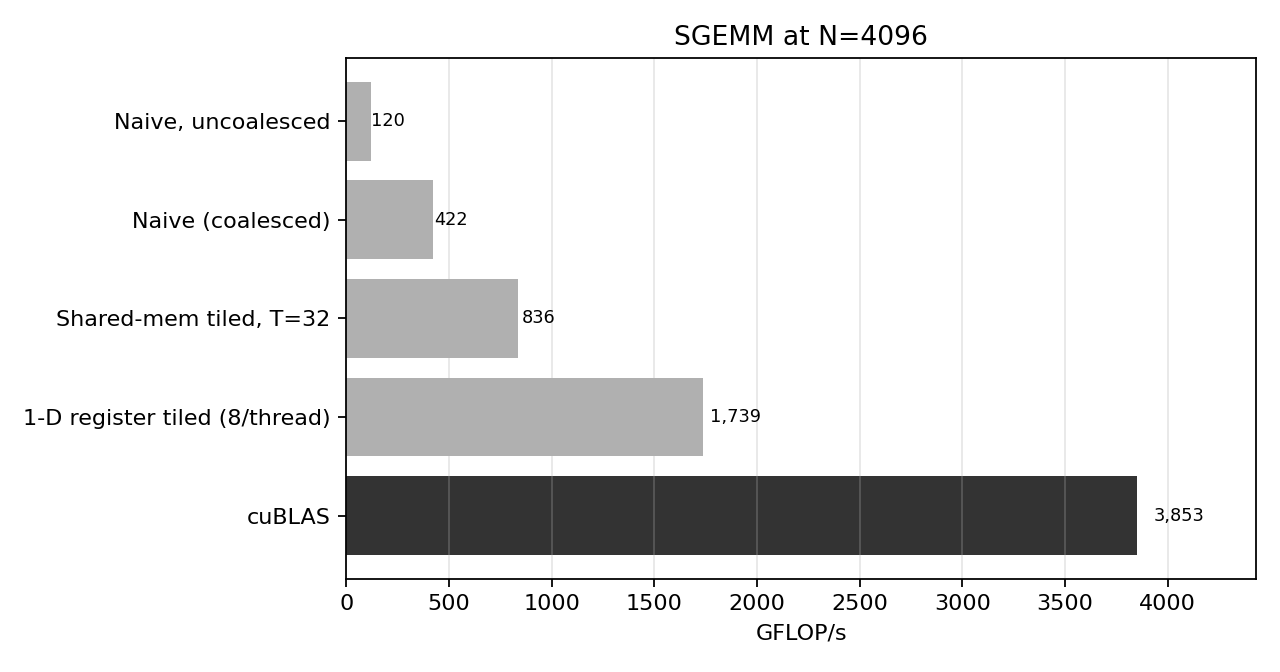
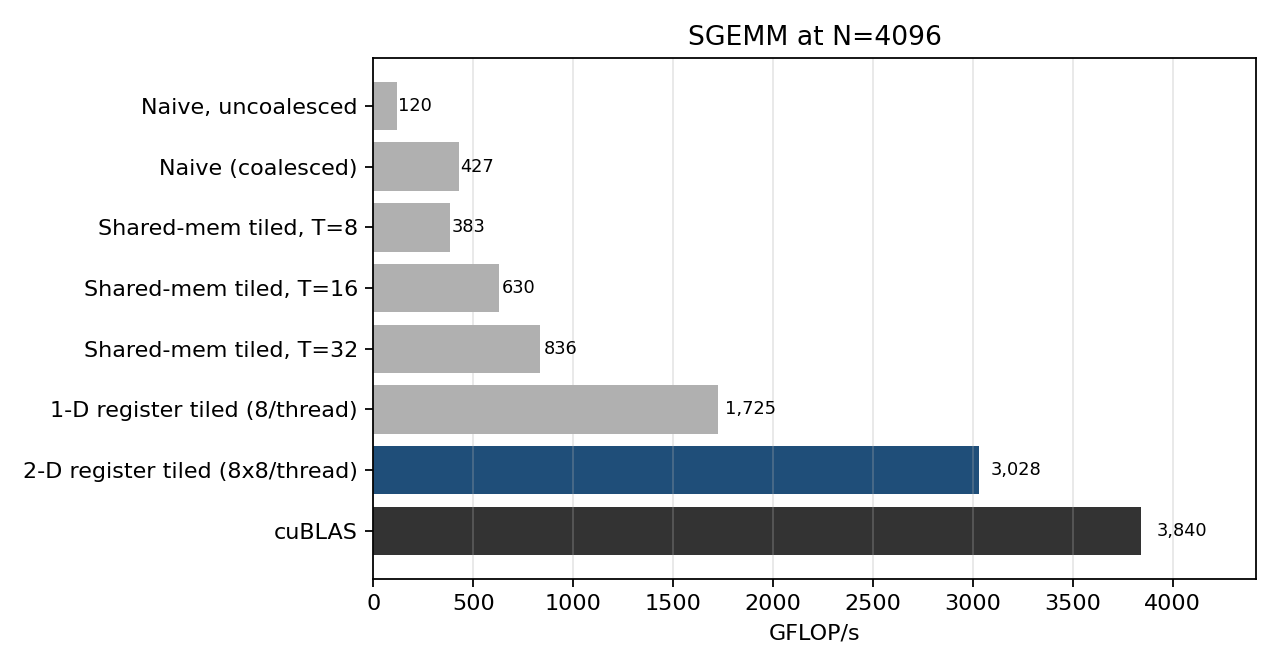
Record measured results: reg2d reaches 78.9% of cuBLAS
Full T4 run of all 8 kernels. reg2d: 3028 GFLOP/s at N=4096, 7.09x naive and
1.76x reg1d, against a 1.5-2x prediction. ptxas confirms the resource model --
119 registers, 0 bytes spilled, 8 KB shared, so 2 blocks/SM at 50% occupancy,
exactly as predicted before the kernel had run.

Two unexpected results, both kept:
  - tiled8 (383) is SLOWER than naive (427) despite 8x the arithmetic
    intensity. Only 8 iterations of work between barriers.
  - tiled16 decays with N (855 -> 658 -> 630) while tiled32 holds flat
    (863 -> 866 -> 836), consistent with L2 covering the lower-intensity
    kernel at small N and progressively failing to.

The cuBLAS dip at N=4096 has now reproduced across three sessions, so it is
systematic rather than noise; still unconfirmed as throttling.

All figures in README and docs/ANALYSIS.md now come from this one
run. No placeholders remain.

diff --git a/docs/ANALYSIS.md b/docs/ANALYSIS.md
@@ -64,10 +64,12 @@ tile, not the per-thread tile. Doubling BM and BN doubles it; changing BK does n
 
 | Kernel | AI | DRAM roof (AI × 320 GB/s) | Measured @4096 | Fraction of its roof |
 |---|---:|---:|---:|---:|
-| `naive` | 0.25 | 80 | 422 | **5.3×** |
+| `naive` | 0.25 | 80 | 427 | **5.3×** |
+| `tiled8` | 2 | 640 | 383 | 0.60× |
+| `tiled16` | 4 | 1,280 | 630 | 0.49× |
 | `tiled32` | 8 | 2,560 | 836 | 0.33× |
-| `reg1d` | 16 | 5,120 | 1,739 | 0.34× |
-| `reg2d` | 32 | 8,100 (compute-capped) | *pending* | — |
+| `reg1d` | 16 | 5,120 | 1,725 | 0.34× |
+| `reg2d` | 32 | 8,100 (compute-capped) | 3,028 | 0.37× |
 
 Two things are wrong with a naive reading of this table, and both are informative.
 
@@ -76,11 +78,16 @@ load. It isn't — the 4 MB L2 catches a large fraction of the reuse for free. T
 bounds *DRAM* traffic, not total traffic, so it's a lower bound on performance for
 cache-friendly access patterns rather than an upper bound.
 
-**`tiled32` and `reg1d` fall far short of theirs.** If DRAM bandwidth were the binding
-constraint, they'd sit near their roofs. At a third of it, something else is the limit.
-This matters, because the obvious story — "AI doubled 8 → 16, throughput doubled
-836 → 1739" — is a correlation with the wrong mechanism attached. Both kernels are well
-clear of the DRAM roof. What actually changed is the next level down.
+**Everything from `tiled8` up falls far short of its roof.** If DRAM bandwidth were the
+binding constraint they would sit near it; instead they cluster at 0.33–0.60×. This matters,
+because the obvious story — "AI doubled 8 → 16, throughput doubled 836 → 1725" — is a
+correlation with the wrong mechanism attached. Both kernels are well clear of the DRAM
+roof. What actually changed is the next level down.
+
+Note also that the fraction-of-roof column is roughly *flat* from `tiled32` to `reg2d`
+(0.33 → 0.34 → 0.37). Doubling arithmetic intensity moved the roof and the measurement by
+about the same factor each time, which is what you would expect if the roof is not the
+thing being hit.
 
 ## 4. The shared-memory bottleneck
 
@@ -95,9 +102,11 @@ the FMA pipeline can retire arithmetic.
 | `k_reg2d`, scalar | 8 `A` + 8 `B` loads, 64 FMAs | 1 : 4 |
 | `k_reg2d`, `float4` | 2 + 2 `LDS.128`, 64 FMAs | 1 : 16 |
 
-The `tiled32` → `reg1d` step improves this ratio by ~1.8×, which tracks the measured 2.08×
-far more closely than the DRAM roofline does. The remaining difference is occupancy
-(§5).
+The `tiled32` → `reg1d` step improves this ratio by ~1.8×, against a measured 2.06×. The
+`reg1d` → `reg2d` step improves it by ~4.5× before vectorization and ~18× after, against a
+measured **1.76×** — so the load-to-FMA ratio stops being the binding constraint somewhere
+inside that step, which is consistent with `reg2d` being the first kernel whose intensity
+(32) clears the machine balance point (25).
 
 It also shows exactly what `reg1d` leaves on the table. Its 8 `A` values per k-step are
 each used once — all the register-level reuse is on the `B` side. The 2-D tile fixes the
@@ -119,6 +128,10 @@ for hiding memory latency: when a warp stalls, the scheduler switches to another
 | `reg1d` | 512 | 4 KB | 2 | 32 | 100% |
 | `reg2d` | 256 | 8 KB | 2 (register-limited) | 16 | 50% |
 
+**Measured** (`ptxas -v`, sm_75): `reg2d` uses **119 registers, 0 bytes spill stores, 0 spill
+loads, 8192 bytes smem**. 119 × 256 = 30,464 registers per block, so 65,536 / 30,464 = 2
+blocks resident — 16 warps, 50% occupancy, exactly as predicted above.
+
 `tiled32` is the interesting row. Its occupancy is 100% by the standard metric, so the
 usual "raise occupancy" advice doesn't apply. The problem is that all 32 resident warps
 belong to the *same block*, so they all hit `__syncthreads()` together and the SM stalls
@@ -127,10 +140,9 @@ staging phase can overlap the other's compute phase. Part of the `tiled32 → re
 is this, not intensity.
 
 `reg2d` trades the other way. 64 accumulators per thread plus `regA`/`regB` pushes register
-use to roughly 128 per thread, capping the SM at two blocks and 50% occupancy. That's the
-intended trade: the kernel is dense enough in arithmetic that it needs less latency hiding.
-**This is the first thing to check with `ncu`** — if the compiler spills to local memory the
-kernel will be slow for a reason that has nothing to do with any of the analysis above.
+use to 119 per thread, capping the SM at two blocks and 50% occupancy. That's the intended
+trade: the kernel is dense enough in arithmetic that it needs less latency hiding, and at
+3,028 GFLOP/s against `reg1d`'s 1,725 at full occupancy, the trade paid.
 
 ## 6. Memory access patterns
 
@@ -186,13 +198,22 @@ before it can be run. Three things carry the load:
    duplicate means a race.
 3. **The all-ones self-test at N=257**, described in the README, as the on-device gate.
 
+All three held: `k_reg2d` compiled and passed the gate on first contact with hardware, and
+its measured occupancy matched the prediction in §5 exactly.
+
 ## 8. Open questions
 
-- Confirm the cuBLAS dip at N=4096 is throttling, by sampling
-  `nvidia-smi --query-gpu=clocks.sm,temperature.gpu` during the run, or by running the
-  sizes in reverse order and seeing whether the dip follows the clock rather than the size.
+- Confirm the cuBLAS dip at N=4096 is throttling. It has now reproduced in three separate
+  sessions (39%, 36%, 32% drops from N=2048), so it is systematic. Sample
+  `nvidia-smi --query-gpu=clocks.sm,temperature.gpu` during the run, or run the sizes in
+  reverse and see whether the dip follows the clock rather than the size.
 - `ncu` per kernel: achieved occupancy, DRAM throughput as % of peak, and compute
   throughput as % of peak. The expected story is `naive` pinned near bandwidth peak with
   low compute utilization, and `reg2d` inverted. Colab's `ncu` support is inconsistent.
-- Check `reg2d` for register spills (`-Xptxas -v`) before drawing any conclusion from its
-  number.
+- Why does `tiled8` (383 GFLOP/s) lose to `naive` (427) despite 8× the arithmetic
+  intensity? Working hypothesis: only 8 iterations of useful work between two barriers, so
+  synchronization and index overhead dominate, while `naive` collects a large uncounted L2
+  assist. `ncu` on barrier stall percentage would settle it.
+- Why does `tiled16` decay with N (855 → 658 → 630) while `tiled32` stays flat
+  (863 → 866 → 836)? Consistent with L2 covering the lower-intensity kernel's traffic at
+  small N and progressively failing to as the working set grows.

diff --git a/README.md b/README.md
@@ -8,26 +8,29 @@ The point isn't to beat cuBLAS. It's that each kernel here removes one specific 
 bottleneck, the predicted effect was written down before the run, and the measurement
 either confirmed it or didn't. Where it didn't, that's in the README too.
 
+**Result:** the 2-D register-tiled kernel reaches **79% of cuBLAS** at N=4096 and **7.1×** a
+coalesced naive kernel, at 50% occupancy with zero register spills.
+
 Hardware: Tesla T4 (Turing, 40 SMs, `sm_75`) on Google Colab. CUDA 12.x.
 
 ![Benchmark](results/benchmark.png)
 
 ## Results at N = 4096
 
-<!-- TODO: refresh this table from results/results.csv after the run that includes
-     tiled8 / tiled16 / reg2d. Existing rows are from the previous run on the same T4. -->
-
 | Kernel | GFLOP/s | ms | vs. naive | % of cuBLAS | Arithmetic intensity |
 |---|---:|---:|---:|---:|---:|
-| `cpu` (i-k-j, `-O3`) | 10.6 *(at N=1024)* | — | — | 0.3% | — |
-| `naive_uncoal` | 120 | 1145.7 | 0.28× | 3.1% | 0.25 (scattered) |
-| `naive` | 422 | 325.5 | 1.00× | 11.0% | 0.25 |
-| `tiled8` | — | — | — | — | 2 |
-| `tiled16` | — | — | — | — | 4 |
-| `tiled32` | 836 | 164.3 | 1.98× | 21.7% | 8 |
-| `reg1d` | 1739 | 79.1 | 4.12× | 45.1% | 16 |
-| `reg2d` | — | — | — | — | 32 |
-| `cublas` | 3853 | 35.7 | 9.12× | 100% | — |
+| `cpu` (i-k-j, `-O3`) | 4.8 *(at N=1024)* | — | — | — | — |
+| `naive_uncoal` | 120 | 1147.2 | 0.28× | 3.1% | 0.25 (scattered) |
+| `naive` | 427 | 321.9 | 1.00× | 11.1% | 0.25 |
+| `tiled8` | 383 | 359.0 | 0.90× | 10.0% | 2 |
+| `tiled16` | 630 | 218.3 | 1.47× | 16.4% | 4 |
+| `tiled32` | 836 | 164.5 | 1.96× | 21.8% | 8 |
+| `reg1d` | 1725 | 79.7 | 4.04× | 44.9% | 16 |
+| **`reg2d`** | **3028** | **45.4** | **7.09×** | **78.9%** | **32** |
+| `cublas` | 3840 | 35.8 | 8.99× | 100% | — |
+
+All numbers are from a single run on one T4, median of 7 after a warm-up. Session-to-session
+variance across runs is around 3%, so treat the last digit as noise.
 
 Arithmetic intensity is FLOPs performed per byte read from DRAM. The T4 does about
 8.1 TFLOP/s of FP32 against 320 GB/s of bandwidth, so its balance point is roughly
@@ -46,7 +49,7 @@ baseline would have made every speedup number below meaningless, so it's worth g
 `C` are consecutive addresses and coalesce into full memory transactions. Intensity is
 0.25 FLOP/byte — two 4-byte loads to feed one multiply and one add.
 
-Naive roofline says `0.25 × 320 GB/s ≈ 80 GFLOP/s`. It measured 422. The gap is the L2
+Naive roofline says `0.25 × 320 GB/s ≈ 80 GFLOP/s`. It measured 427. The gap is the L2
 cache absorbing reuse that the intensity figure doesn't model, which is a useful reminder
 that the roofline bounds DRAM traffic, not total traffic.
 
@@ -55,7 +58,7 @@ The only change is one line: `threadIdx.x` maps to the row instead of the column
 warp's 32 addresses are `N` floats apart, so a single request scatters into 32 separate
 32-byte transactions, each delivering 4 useful bytes.
 
-Cost: **3.5×**, from nothing but the thread-to-data mapping. I kept this kernel in the repo
+Cost: **3.6×**, from nothing but the thread-to-data mapping. I kept this kernel in the repo
 deliberately. It's the only controlled experiment here where a single variable changes and
 everything else is held fixed, and it's the clearest evidence that coalescing is a real
 effect and not folklore.
@@ -71,9 +74,17 @@ while slower threads are still reading the current one. Omitting it gives an int
 race that returns wrong numbers and never crashes.
 
 **5. Tile-size sweep** (`tiled8`, `tiled16`, `tiled32`). Bigger tiles raise intensity but
-cost occupancy. `TILE=32` needs 1024 threads per block, which is Turing's per-*SM* thread
-limit, so exactly one block is resident and at every `__syncthreads()` the SM has nothing
-else to run. The optimum is a trade-off between two resources, and it's empirical.
+cost resident blocks, so the optimum is empirical. Two results worth having:
+
+**`tiled8` is slower than no tiling at all** — 383 vs. 427 GFLOP/s at N=4096, a 0.90×
+"speedup". Its intensity is 8× the naive kernel's, and it still loses. An 8×8 tile means
+only 8 iterations of useful work between two barriers, so barrier and index overhead eats
+the gain, and the naive kernel meanwhile gets a large uncounted assist from L2.
+
+**`tiled16` degrades with N while `tiled32` holds flat** — 855 → 658 → 630 GFLOP/s across
+N = 1024, 2048, 4096, against 863 → 866 → 836 for `tiled32`. At N=1024 the two are within
+1% of each other; by N=2048 `tiled32` is 32% ahead. As the working set grows, L2 captures a
+smaller share of the reuse, and the lower-intensity kernel is the one that suffers for it.
 
 **6. 1-D register tiling.** Tiling alone plateaus because the inner loop issues two
 shared-memory loads per FMA, and shared memory can't feed the ALUs at that ratio. So each
@@ -92,6 +103,11 @@ Two details make it actually fast rather than just theoretically better. `A` is 
 That in turn makes the shared-memory reads vectorizable as `float4`, which cuts the
 load instruction count 4× and sidesteps a bank conflict: with scalar loads, the 16 threads
 of a half-warp read `B` at 8-float strides and collide 4 ways on the same banks.
+
+Measured: **3,028 GFLOP/s, 78.9% of cuBLAS**, 1.76× over `reg1d`. The prediction going in
+was 1.5–2×. `ptxas` confirms the resource model too — **119 registers, 0 bytes spilled**,
+8 KB shared, which puts two blocks on an SM at 50% occupancy, exactly the trade the design
+was making.
 
 ## Negative results
 
